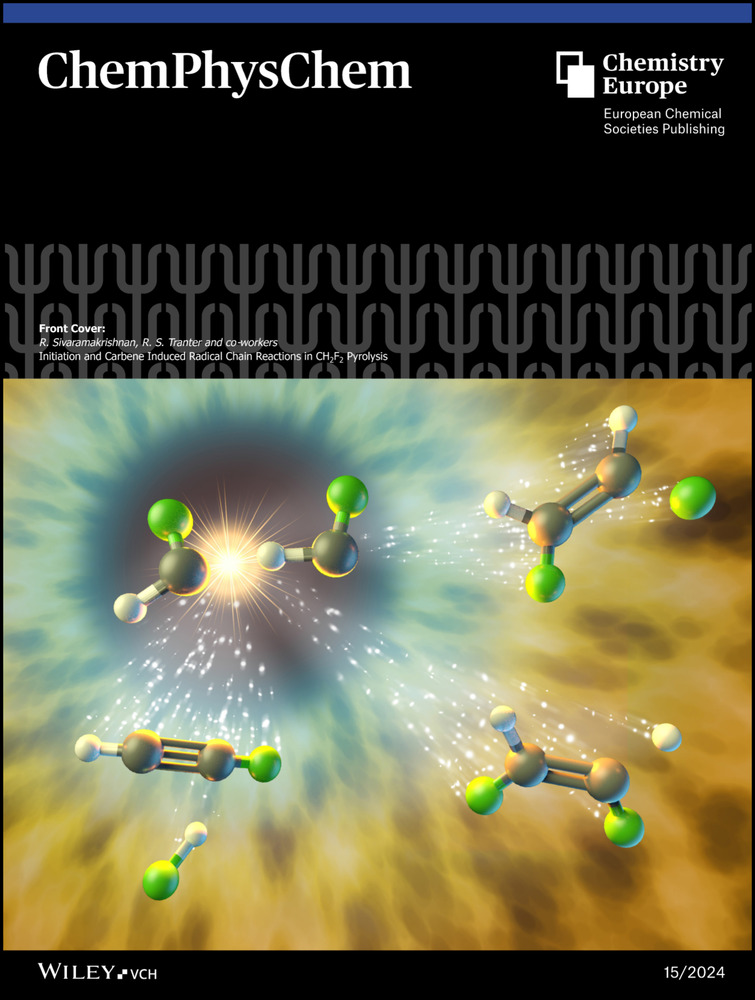
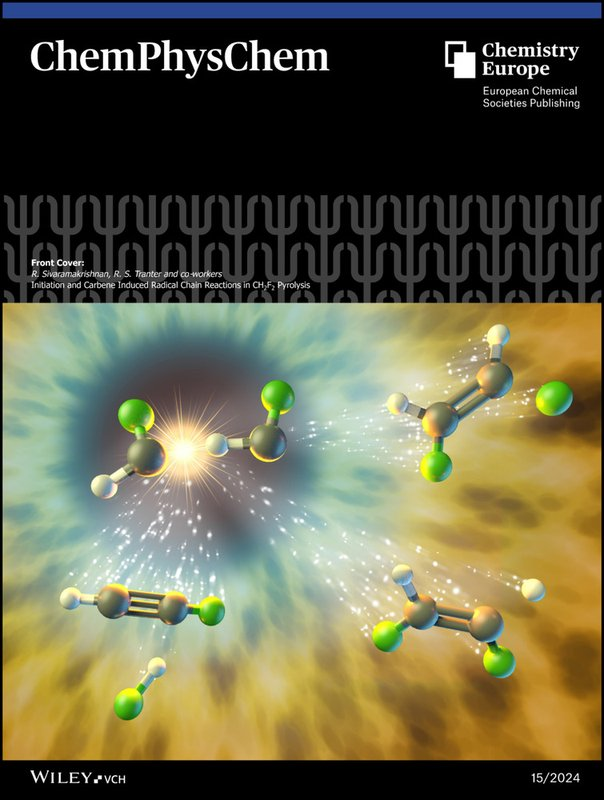
Resize oversized images and convert opaque PNG photos to JPEG

diff --git a/publications.html b/publications.html
@@ -166,7 +166,7 @@
                      <div class="row-fluid">
                         <div class="span3">
                            <a href="https://doi.org/10.1039/D5CP00374A" class="thumbnail">
-                           <img class="publications-thumb" src="thumbs/pccp.png" alt="Phys. Chem. Chem. Phys."/>
+                           <img class="publications-thumb" src="thumbs/pccp.jpg" alt="Phys. Chem. Chem. Phys."/>
                            </a>
                         </div>
                         <div class="span9">
@@ -520,7 +520,7 @@
                      <!--<div class="row-fluid">-->
                         <!--<div class="span3">-->
                            <!--<a href="https://pubs.rsc.org/en/journals/journalissues/cp#!recentarticle" class="thumbnail">-->
-                           <!--<img class="publications-thumb" src="thumbs/pccp.png" alt="Physical Chemistry Chemical Physics"/>-->
+                           <!--<img class="publications-thumb" src="thumbs/pccp.jpg" alt="Physical Chemistry Chemical Physics"/>-->
                            <!--</a>-->
                         <!--</div>-->
                         <!--<div class="span9">-->
@@ -579,7 +579,7 @@
                      <div class="row-fluid">
                         <div class="span3">
                            <a href="https://pubs.rsc.org/en/journals/journalissues/cp#!recentarticle" class="thumbnail">
-                           <img class="publications-thumb" src="thumbs/pccp.png" alt="Physical Chemistry Chemical Physics"/>
+                           <img class="publications-thumb" src="thumbs/pccp.jpg" alt="Physical Chemistry Chemical Physics"/>
                            </a>
                         </div>
                         <div class="span9">
@@ -639,7 +639,7 @@
                      <div class="row-fluid">
                         <div class="span3">
                            <a href="https://pubs.rsc.org/en/journals/journalissues/cp#!recentarticle" class="thumbnail">
-                           <img class="publications-thumb" src="thumbs/pccp.png" alt="Physical Chemistry Chemical Physics"/>
+                           <img class="publications-thumb" src="thumbs/pccp.jpg" alt="Physical Chemistry Chemical Physics"/>
                            </a>
                         </div>
                         <div class="span9">
@@ -653,7 +653,7 @@
                      <div class="row-fluid">
                         <div class="span3">
                            <a href="https://pubs.rsc.org/en/journals/journalissues/cp#!recentarticle" class="thumbnail">
-                           <img class="publications-thumb" src="thumbs/pccp.png" alt="Physical Chemistry Chemical Physics"/>
+                           <img class="publications-thumb" src="thumbs/pccp.jpg" alt="Physical Chemistry Chemical Physics"/>
                            </a>
                         </div>
                         <div class="span9">

diff --git a/people.html b/people.html
@@ -114,8 +114,8 @@
                      <div class="span6">
                         <div class="row-fluid">
                            <div class="span4">
-                              <a href="thumbs/mikael.png" class="thumbnail">
-                              <img src="thumbs/mikael.png"/>
+                              <a href="thumbs/mikael.jpg" class="thumbnail">
+                              <img src="thumbs/mikael.jpg"/>
                               </a>
                            </div>
                            <div class="span8">
@@ -169,8 +169,8 @@
                      <div class="span6">
                         <div class="row-fluid">
                            <div class="span4">
-                              <a href="thumbs/Veena.png" class="thumbnail">
-                              <img src="thumbs/Veena.png"/>
+                              <a href="thumbs/Veena.jpg" class="thumbnail">
+                              <img src="thumbs/Veena.jpg"/>
                               </a>
                            </div>
                            <div class="span8">
@@ -219,8 +219,8 @@
                      <div class="span6">
                         <div class="row-fluid">
                            <div class="span4">
-                              <a href="thumbs/Minjun.png" class="thumbnail">
-                              <img src="thumbs/Minjun.png"/>
+                              <a href="thumbs/Minjun.jpg" class="thumbnail">
+                              <img src="thumbs/Minjun.jpg"/>
                               </a>
                            </div>
                            <div class="span8">
@@ -297,8 +297,8 @@
                      <div class="span6">
                         <div class="row-fluid">
                            <div class="span4">
-                              <a href="thumbs/allenb.png" class="thumbnail">
-                              <img src="thumbs/allenb.png" alt="Allen Bushman"/>
+                              <a href="thumbs/allenb.jpg" class="thumbnail">
+                              <img src="thumbs/allenb.jpg" alt="Allen Bushman"/>
                               </a>
                            </div>
                            <div class="span8">

diff --git a/index.html b/index.html
@@ -40,7 +40,7 @@
                <div id="main-carousel" class="carousel slide">
                   <div class="carousel-inner">
                      <div class="item active">
-                        <img src="images/toc_unified.png" class="carousel-image" alt="">                      
+                        <img src="images/toc_unified.jpg" class="carousel-image" alt="">                      
                         <div class="carousel-caption">
                            <h4>Welcome to the Computational Catalysis Research Laboratory</h4>
                            <p></p>
